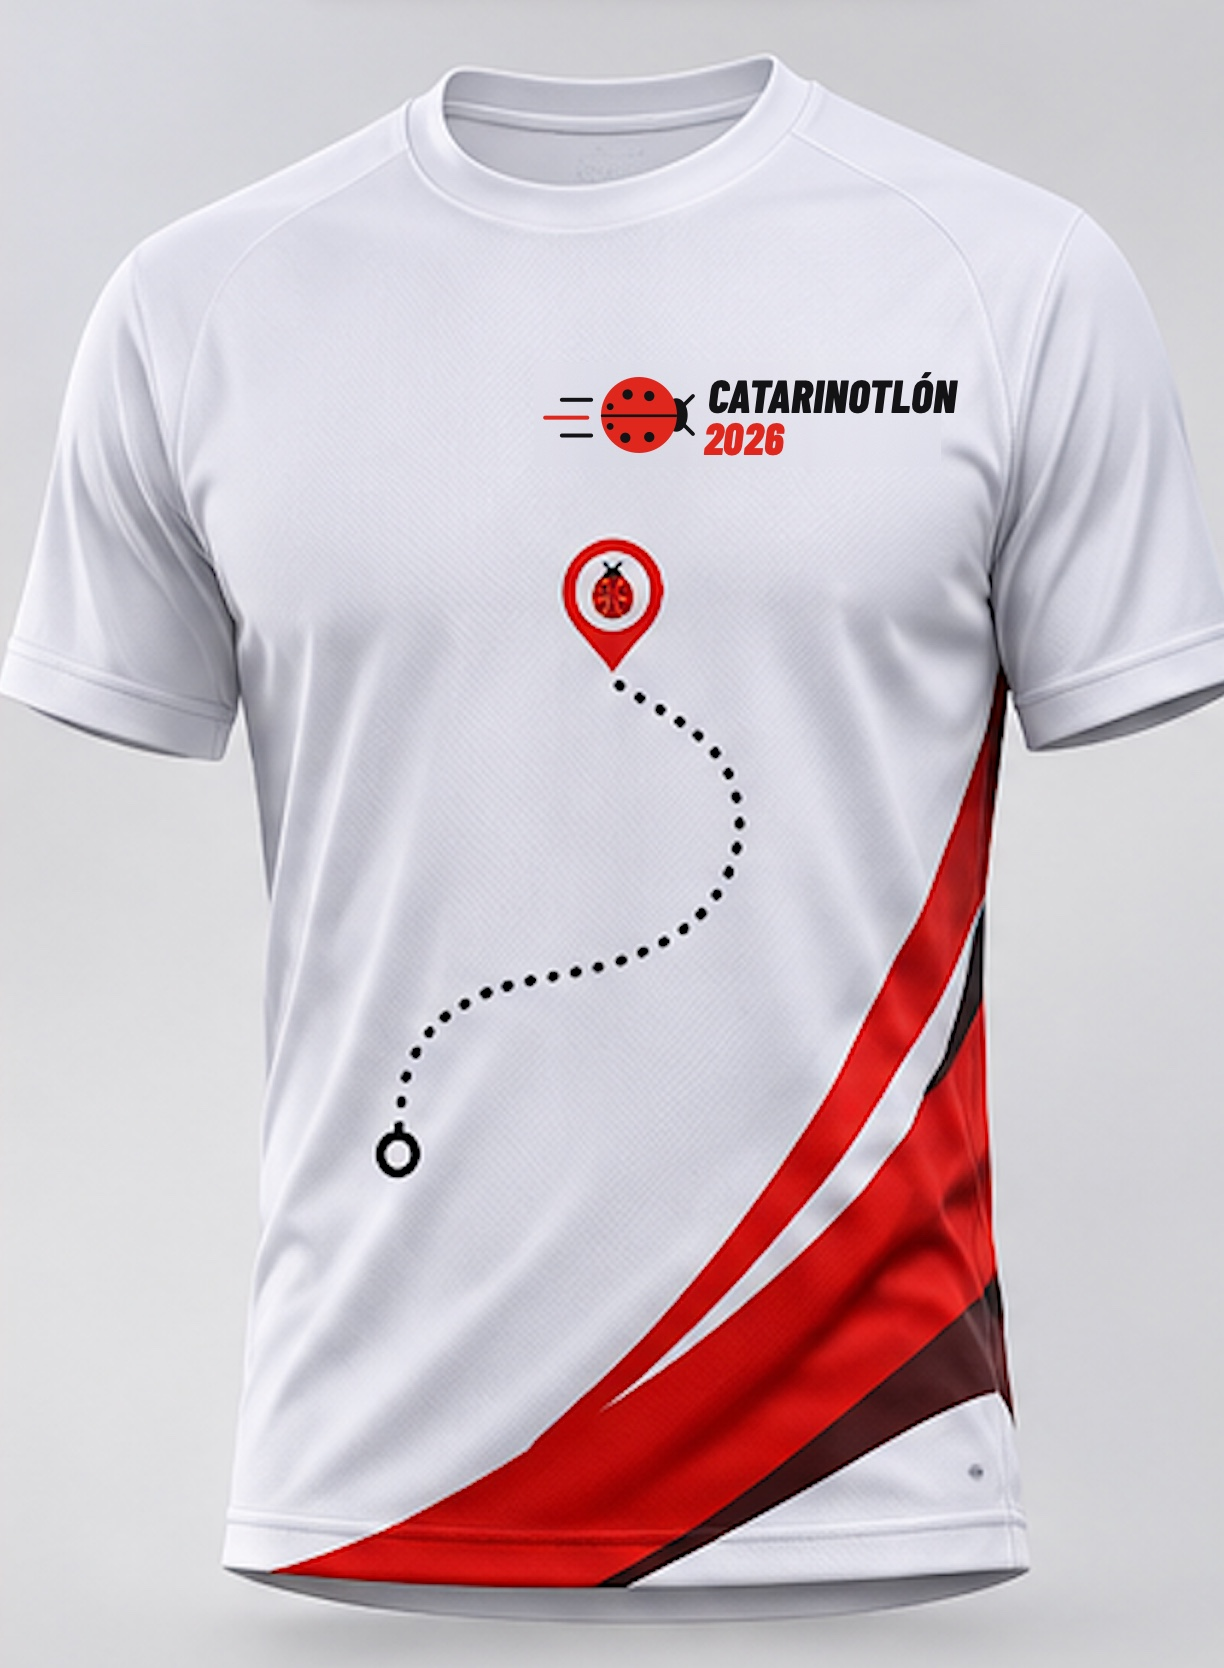
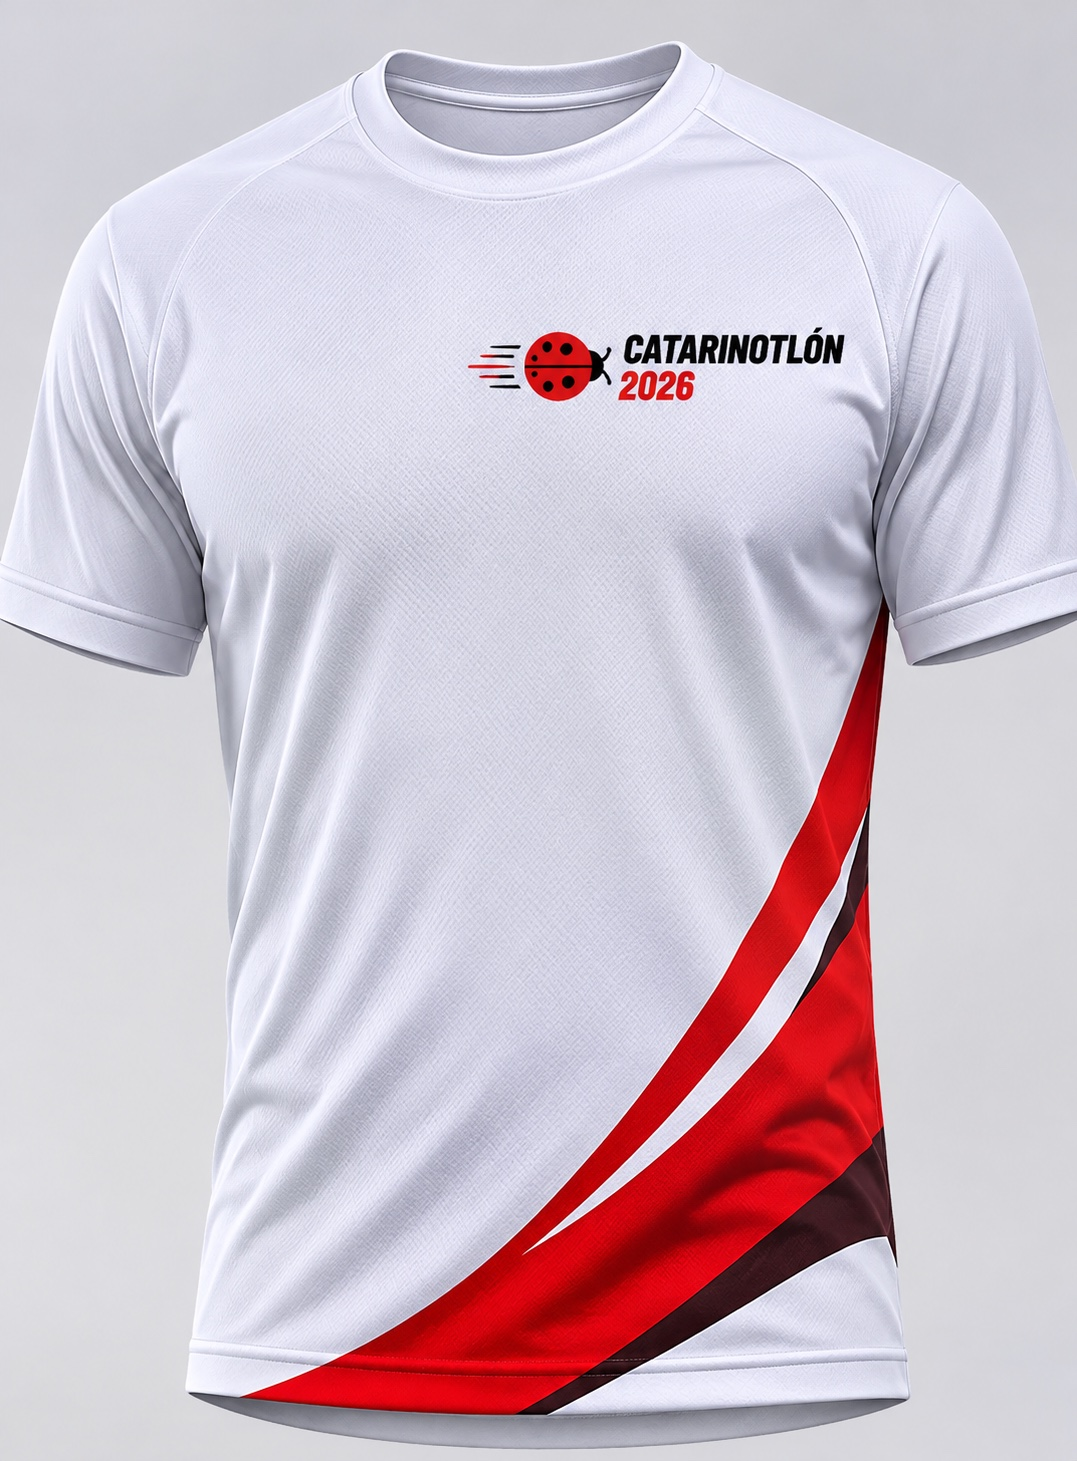
feat(event): show the new shirt front
Replace the front shirt photo with the organizer's updated design: the
logo on the chest and the red strokes, without the dotted route and the
ladybug pin. The back stays the same.

- Swap shirt-front.jpg in public/images and design/assets.
- Size each shirt photo at its own aspect ratio so the page does not
  shift when it loads.
- Stop describing a dotted route on the shirt in the landing copy, in
  CLAUDE.md, and in the share card comment.

diff --git a/src/modules/event/presentation/landing-page.tsx b/src/modules/event/presentation/landing-page.tsx
@@ -18,6 +18,12 @@ import { ShirtTryOn } from './shirt-try-on';
 /** An illustrative bib for the kit section, for either distance; real numbers are assigned per registration. */
 const SAMPLE_BIB = { number: '48213', distance: '3K/5K' } as const;
 
+/** Intrinsic size of each shirt photo, at the photos' own aspect ratio. */
+const SHIRT_PHOTO_SIZE = {
+  front: { width: 612, height: 830 },
+  back: { width: 612, height: 897 },
+} as const;
+
 /** Props of {@link LandingPage}. */
 export interface LandingPageProps {
   /** The public event facts. */
@@ -365,8 +371,7 @@ export function LandingPage({ facts }: LandingPageProps) {
                 <Image
                   src={`/images/shirt/shirt-${side}.jpg`}
                   alt={t(`kit.${side}`)}
-                  width={612}
-                  height={834}
+                  {...SHIRT_PHOTO_SIZE[side]}
                   sizes="(max-width: 768px) 45vw, 280px"
                   className="block h-auto w-full rounded-xl"
                 />

diff --git a/src/shared/ui/race-bib.stories.tsx b/src/shared/ui/race-bib.stories.tsx
@@ -92,7 +92,7 @@ export const OnTheShirt: Story = {
             src="/images/shirt/shirt-front.jpg"
             alt="Front of the official shirt"
             width={612}
-            height={834}
+            height={830}
             className="block aspect-[614/900] w-full object-cover"
           />
           <div className="absolute top-[37%] left-[29%] w-[42%] -rotate-2 drop-shadow-lg">

diff --git a/src/modules/event/presentation/kit-stage.tsx b/src/modules/event/presentation/kit-stage.tsx
@@ -22,7 +22,7 @@ export function KitStage({ className }: { className?: string }) {
         src="/images/shirt/shirt-front.jpg"
         alt={shirt('frontAlt')}
         width={612}
-        height={834}
+        height={830}
         priority
         sizes="(max-width: 1024px) 55vw, 320px"
         className="h-auto w-full -rotate-2 rounded-2xl bg-surface shadow-xl"

diff --git a/src/shared/ui/share-card.tsx b/src/shared/ui/share-card.tsx
@@ -282,7 +282,7 @@ function RibbonDots() {
   );
 }
 
-/** The dotted route that ends in the ladybug pin, as printed on the shirt. */
+/** The dotted route that ends in the ladybug pin, a brand motif. */
 function Route() {
   return (
     <svg width={460} height={24} viewBox="0 0 460 24" fill="none" aria-hidden="true">

diff --git a/CLAUDE.md b/CLAUDE.md
@@ -484,7 +484,7 @@ Runner data is stored (name, email, phone). Never write it to logs, error messag
 - Dark theme: `#0E0E0F` background, `#18181A` surface, `#232327` raised surface, `#34343A` border, `#F5F5F6` text, `#B9B9BF` muted text, `#FF5A4D` red for text.
 - Red buttons, the dotted red panel, and the red registration section look the same in both themes.
 - Typography: Barlow Condensed (headings, italic 800/900, uppercase) and Barlow (body), loaded with `next/font`.
-- Motifs: black dots on red (medal ribbon), dotted route ending in a ladybug pin (shirt), speed lines from the logo.
+- Motifs: black dots on red (medal ribbon), dotted route ending in a ladybug pin, speed lines from the logo.
 - Accessibility: minimum 4.5:1 text contrast, 44 px touch targets, native controls (`button`, `a`, `input` + `label`), everything keyboard-navigable.
 - Design mobile-first.
 
